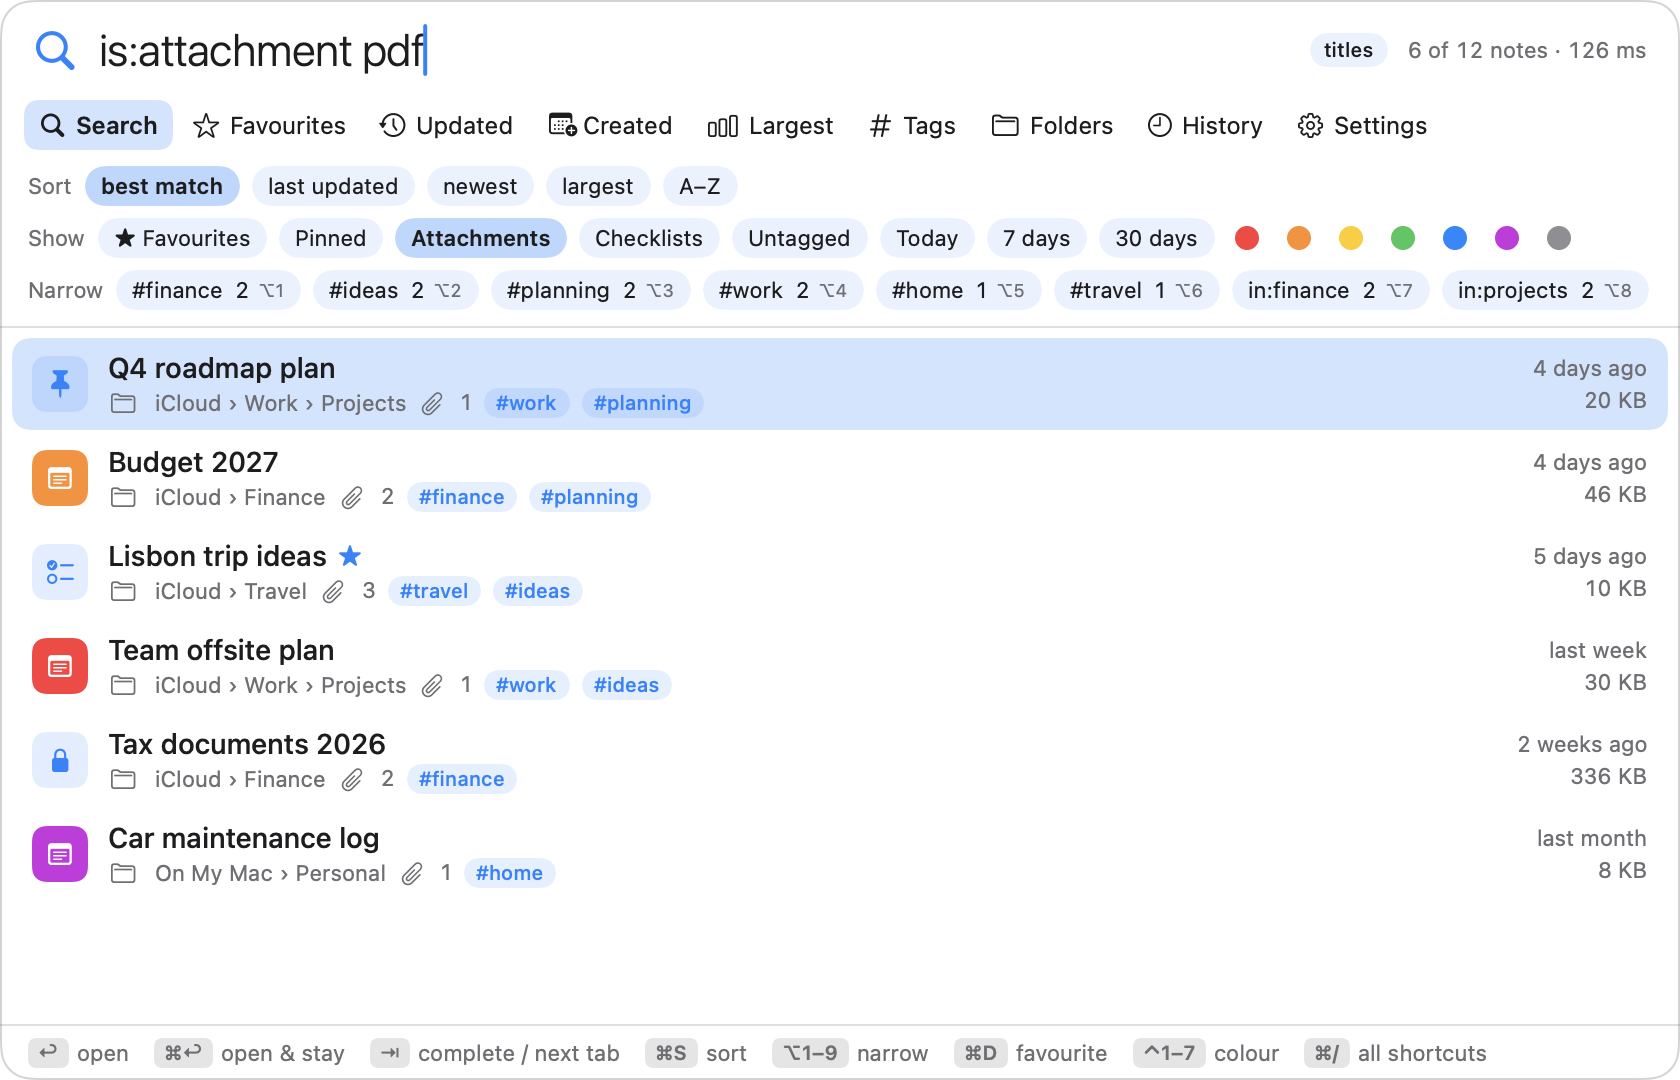
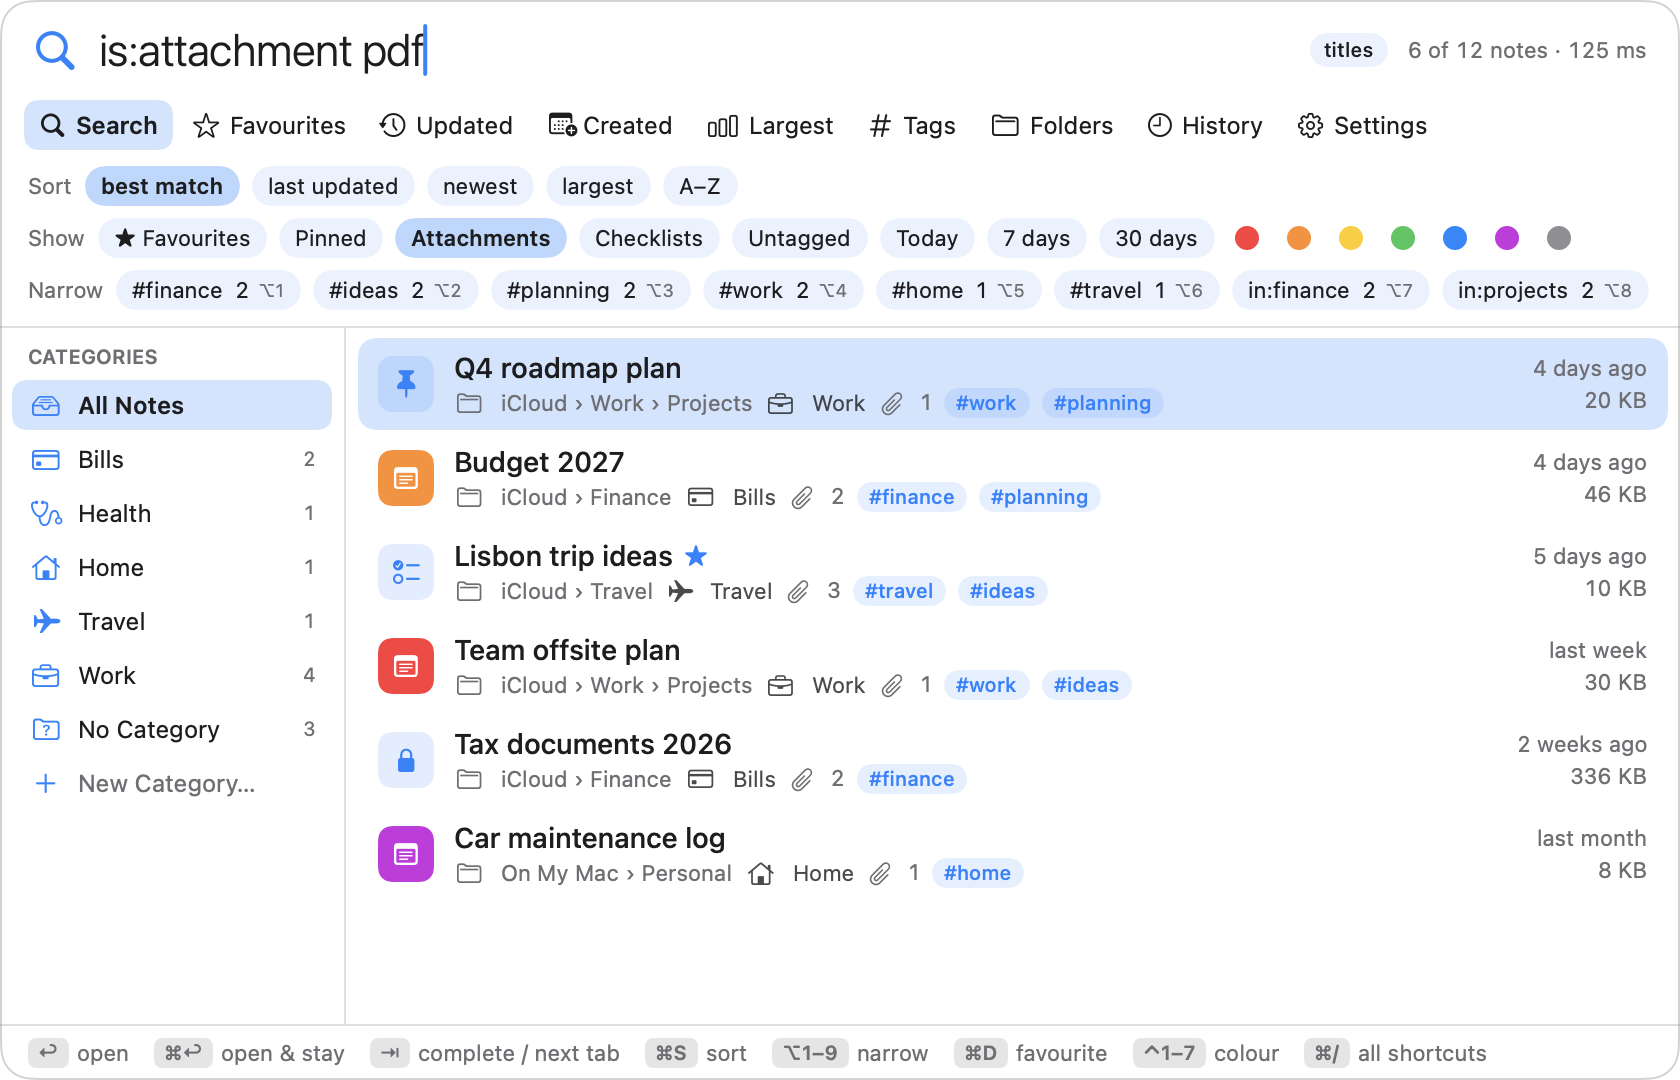
Document 1.15: categories; the right-click menu works from 1.15; refresh screenshots

diff --git a/docs/search-syntax.md b/docs/search-syntax.md
@@ -16,6 +16,7 @@ ignored, so `cafe` finds "Café".
 | `is:checklist` | Notes that contain a checklist | |
 | `is:attachment` | Notes that have at least one attachment (`has:attachment` also works) *(1.1+)* | |
 | `color:name` | Notes you gave that colour; `color:any` / `color:none` for coloured / uncoloured notes *(1.12+)* | `color:orange` |
+| `cat:name` | Notes in that category; `cat:none` / `cat:any` for notes without / with one *(1.15+)* | `cat:work` |
 | `is:hidden` | Notes you hid from NoteSearch *(1.13+)* | |
 | `is:favorite` | Notes you starred with **⌘D** (`is:fav` also works) *(1.4+)* | |
 | `is:untagged` | Notes with no hashtags *(1.7+)* | |
@@ -97,9 +98,31 @@ Press **⇧⌘D** to save the search you are typing. Saved searches appear with 
 [History tab](tabs-and-settings.md#history-13) and are never pushed out by newer searches. On the History tab,
 **⌘D** saves or unsaves the highlighted entry and **Return** runs it.
 
+## Categories *(1.15+)*
+
+![The categories sidebar, showing the Work category](images/categories.png)
+
+Categories are your own groups for notes, such as Work, Home and Bills. They are listed in a sidebar on the left,
+each with an icon and the number of notes in it. A note is in one category at a time. Like stars and colours,
+categories are kept by NoteSearch and are **not** written to Apple Notes.
+
+- **See a category's notes:** click it. Click it again, or **All Notes**, to go back. **No Category** lists the
+  notes you have not filed yet.
+- **Move a note:** drag it onto a category, or right-click it and choose **Category**, or press **⌘M** and then
+  the category's number.
+- **New category:** click **New Category…** at the bottom of the sidebar, type a name and pick an icon.
+- **Rename, change the icon, or delete:** right-click the category. Deleting a category does not touch its notes;
+  they simply have no category afterwards.
+- **In a search:** `cat:work` (`category:` also works) combines with any other term, for example
+  `cat:work updated:7d`. `cat:none` finds notes with no category and `cat:any` those with one.
+- **Hide the sidebar:** press **⌘B**, or use the setting **Show the categories sidebar**.
+
+Version 1.15 starts you off with Work, Home and Bills; rename or delete them as you like.
+
 ## Hiding notes *(1.13+)*
 
-Right-click a note and choose **Hide from NoteSearch** to keep it out of every list. The note is untouched in
+Right-click a note and choose **Hide from NoteSearch** to keep it out of every list (this needs version 1.15;
+the menu did not open in 1.13 and 1.14). The note is untouched in
 Apple Notes; only NoteSearch stops showing it.
 
 - Search `is:hidden` to see the notes you have hidden. Right-click one there and choose **Show in NoteSearch
@@ -124,7 +147,7 @@ Apple Notes, so they do not appear in the Notes app or on your other devices.
 - **Colour** *(1.12+)*: press **⌃1 … ⌃7** for red, orange, yellow, green, blue, purple or grey. The note's icon
   takes that colour. Press the same key again, or **⌃0**, to remove it. A note has one colour at a time.
 
-From 1.12 you can also right-click a note and choose **Star** or **Colour**.
+From 1.15 you can also right-click a note and choose **Star** or **Colour**.
 
 To find marked notes:
 

diff --git a/docs/keyboard-shortcuts.md b/docs/keyboard-shortcuts.md
@@ -27,6 +27,8 @@
 | **⌘D** | Star or unstar the selected note as a favourite *(1.4+)* |
 | **⌃1 … ⌃7** | Give the selected note a colour: red, orange, yellow, green, blue, purple, grey. The same key again removes it *(1.12+)* |
 | **⌃0** | Remove the selected note's colour *(1.12+)* |
+| **⌘M** | Move the selected note to a category: a list opens, press its number (1–9), or 0 for none *(1.15+)* |
+| **⌘B** | Show or hide the categories sidebar *(1.15+)* |
 | **⇧⌘D** | Save the search you are typing. It appears starred at the top of the History tab *(1.7+)* |
 | **⌘N** | Create a new note in Notes, titled with whatever you have typed. macOS asks for permission the first time *(1.4+)* |
 | **⇧⌘C** | Copy a link to the selected note. Opening the link shows that note in Notes |
@@ -62,23 +64,28 @@ The usual text shortcuts (⌘A, ⌘C, ⌘V, ⌘X, ⌘Z) work in the search box.
 | **⌘D** | Save or unsave the highlighted search *(1.7+)* |
 | **⌘⌫** | Remove the highlighted search from the history |
 
-## With the mouse *(1.12+)*
+## With the mouse *(1.15+)*
 
-Right-click a note for a menu. From version 1.13 it offers:
+Right-click a note for a menu *(1.15+)*:
 
 | Menu item | What it does |
 | --- | --- |
 | **Open in Notes** / **Open and Keep This Popup** | The same as Return and ⌘Return |
 | **Star** / **Remove Star** | The same as ⌘D |
 | **Colour** | Pick one of the seven colours, or None |
+| **Category** | Move the note to one of your categories, take it out of its category, or make a new one |
 | **Hide from NoteSearch** | Keeps the note out of every list. See [Hiding notes](search-syntax.md#hiding-notes-113) |
 | **Notes in "folder"** | Lists the notes in the same folder |
 | **Notes Tagged** | Lists the notes with one of this note's hashtags, or with all of them |
-| **Notes Marked "colour"** | For a coloured note: lists the others with that colour |
+| **Notes Marked "colour"** / **Notes in Category** | Lists the other notes with the same colour or category |
 | **Copy** | Link, title or Markdown link |
 
-Nothing in this menu changes the note in Apple Notes. (In 1.12 the menu has only Star, Colour and the copy
-actions.)
+Right-click a category in the sidebar to show its notes, rename it, change its icon or delete it.
+
+Nothing in these menus changes the note in Apple Notes.
+
+**Versions 1.12 to 1.14:** the right-click menu on notes was announced for these versions but did not open. Update
+to 1.15 or later. Everything it offers was, and is, also available from the keyboard.
 
 ## Menu-bar icon
 

diff --git a/README.md b/README.md
@@ -35,7 +35,10 @@ Step-by-step instructions with pictures are in [Getting started](docs/getting-st
   ⌘/ *(1.8+)*.
 - **Six optional wallpapers** and a popup you can resize from the keyboard *(1.9+)*.
 - **Favourites tab and colour labels** for notes, kept in NoteSearch only *(1.12+)*.
-- **Right-click menu** on notes: open, star, colour, hide, jump to the same folder or hashtag, copy *(1.13+)*.
+- **Categories** you make yourself (Work, Home, Bills…), in a sidebar: click to browse, drag a note to move it
+  *(1.15+)*.
+- **Right-click menu** on notes: open, star, colour, category, hide, jump to the same folder or hashtag, copy
+  *(1.15+)*.
 - **Optional iCloud sync** of stars, colours, hidden notes and saved searches between your Macs *(1.14+)*.
 - **Private**: by default only titles and metadata are read. Note text is read only if you turn that on, is kept
   in memory only, and is never saved, and is shown only if you ask for the matching line. The only network use is an optional daily
@@ -54,6 +57,7 @@ Step-by-step instructions with pictures are in [Getting started](docs/getting-st
 | ![Search history](docs/images/history.png) <br> History of past searches | ![Tags tab](docs/images/tags.png) <br> Every hashtag with its note count (Midnight theme) |
 | ![Settings](docs/images/settings.png) <br> Settings (Notes Yellow theme, Sand wallpaper) | ![Sort, Show and Narrow buttons](docs/images/buttons.png) <br> One-click sorting, filters and narrowing |
 | ![Favourites tab](docs/images/favourites.png) <br> Favourites: starred and colour-labelled notes | ![Colour filter](docs/images/colours.png) <br> Notes marked orange or green |
+| ![Categories sidebar](docs/images/categories.png) <br> Your own categories in the sidebar | |
 
 ## Documentation
 

diff --git a/docs/tabs-and-settings.md b/docs/tabs-and-settings.md
@@ -97,6 +97,7 @@ one.
 | **Search inside note text** | Also match plain words against the text of your notes. See [Privacy](privacy.md) *(1.3+)* | Off |
 | **Show the matching line for text matches** | While searching inside note text, shows the one line that matched under each result *(1.4+)* | Off |
 | **Added to every search** | Search terms applied to every list, for example `-in:archive` to hide a folder. See [Search syntax](search-syntax.md#hiding-a-folder-or-an-account-everywhere-17) *(1.7+)* | Empty |
+| **Show the categories sidebar** | The list of your categories on the left of the note lists. **⌘B** switches it too. See [Categories](search-syntax.md#categories-115) *(1.15+)* | On |
 | **Hide locked notes** | Keeps the titles of locked notes out of every list *(1.8+)* | Off |
 | **Open the popup where I left it** | Off: the popup opens centred on the screen the pointer is on. On: it stays where you last dragged it *(1.8+)* | Off |
 | **Close popup after opening a note** | Off keeps the popup open after Return | On |
@@ -123,7 +124,7 @@ size you chose next time. It cannot be made larger than the screen or smaller th
 ### Syncing between Macs *(1.14+)*
 
 Your notes already sync through Apple Notes. This setting syncs what NoteSearch adds on top: **stars, colours,
-hidden notes and saved searches**. Themes, wallpaper, popup size, the shortcut and search history stay separate
+categories (from 1.15), hidden notes and saved searches**. Themes, wallpaper, popup size, the shortcut and search history stay separate
 on each Mac.
 
 1. On each Mac, make sure iCloud Drive is turned on (System Settings → your name → iCloud → iCloud Drive).

diff --git a/docs/privacy.md b/docs/privacy.md
@@ -34,7 +34,8 @@ From version 1.14 there is an optional setting, **Sync through iCloud Drive**, w
 it on. While it is on:
 
 - NoteSearch keeps one file, `NoteSearch-sync.json`, in a **NoteSearch** folder in your iCloud Drive.
-- The file holds your stars, colours, hidden notes and saved searches. Notes are listed by internal ID only. It
+- The file holds your stars, colours, categories (their names and icons, from 1.15), hidden notes and saved
+  searches. Notes are listed by internal ID only. It
   contains **no note titles and no note text**. Your saved searches are stored as you typed them.
 - Apple's iCloud carries the file to your other Macs, like any other file in iCloud Drive. NoteSearch itself
   sends it nowhere and makes no network connection for this.
@@ -72,6 +73,7 @@ Only its own preferences, on your Mac:
 - Your last 50 searches, for the History tab *(1.3+)*. You can turn this off or clear it in Settings.
 - Your saved searches, and the terms in **Added to every search** *(1.7+)*.
 - The colour you gave each note, and which notes you hid, by internal ID *(1.12+, 1.13+)*.
+- Your categories (name and icon) and which category each note is in, by internal ID *(1.15+)*.
 - Identifiers of the notes you starred as favourites *(1.4+)*. Internal IDs again, not titles or text.
 - The latest version number seen by the update check, and when it last ran *(1.4+)*.
 
